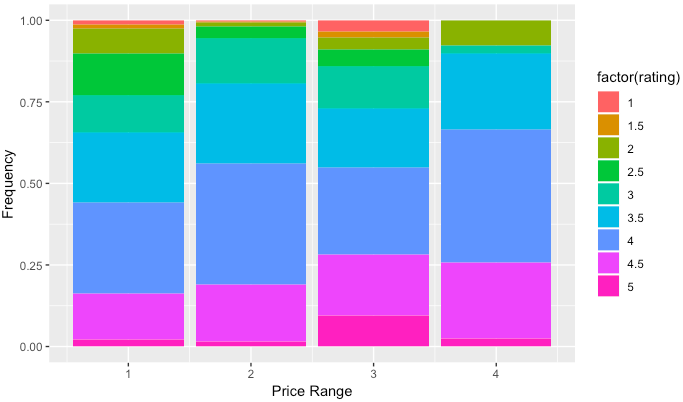
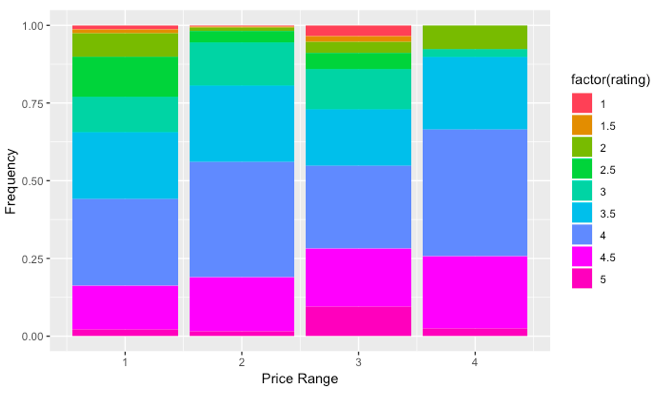
changes

diff --git a/kzhang21_ryuc_zui_sarms/README.md b/kzhang21_ryuc_zui_sarms/README.md
@@ -1,4 +1,4 @@
-# Project #3
+# Project #3: Final Report
 **Duy Nguyen** and **Sarah M'Saad** and **Colleen Kim** and **Kelly Zhang**
 
 ## How to run this code?
@@ -20,40 +20,53 @@ For data storage, we use mongoDB to store and interact with data through a simpl
 ## Algorithms and Analysis Techniques
 In the beginning of our working pipeline, we import food inspection data from Analyze Boston. We calculate the average food violation rate for each restaurant, and then we incorporate rating data from the Yelp Fusion API. Finally, we use z3 to approach restaurant selection as a constraint satisfaction problem, where the user provides the following constraints as input: location, minimum and maximum travel distance, average rating requirement, average acceptable violations. Location is used as a starting location of where the user would like to start their day in Boston, and using GeoPy we are able to determine acceptable eateries based on the given minimum and maximum distances. Using these constraints and GeoPy we return a list of places the user can go to, which in trial mode is 5 places, and otherwise 500.
 
-## Visualizations
-To help users get a better idea of the available eateries in Boston, we also provide visualizations of the data gathered using R. In figure 1 and 2 are a graphs showing the relationship between price range and restaurant rating. There is a positive relationship here, indicating that the more expensive a restaurant is, the better ratings it gets.
+## Visualizations and Statistical Analysis
+To help users get a better idea of the available eateries in Boston, we also provide visualizations of the data gathered using R. In figure 1 is a graph that shows the relationship between price range and restaurant rating. There is a positive relationship here, indicating that the more expensive a restaurant is, the better ratings it gets. There are no one-star reviewed restaurant within the price range of '$$$$' which is somewhat expected. 
 
 ![figure1](images/figure1.png)
 
 **Figure 1:** Graphs showing a positive relationship between the price range and rating of a restaurant.
 
-![figure2](images/figure2.png)
+To further understand their relationship, we transformed the price range into a continuous variable (from 1 to 4, repective with the number of dollar signs a restaurnt holds). We assume this transformation is legitimate since we want to understand the increasing relationship of price in comparison with rating. We saved this variable as `price_new`. Then, we calculated their p-value (using t-test distribution) and their correlation coefficient. And then model the results using a linear regression model.
+
+![figure2](images/figure_3.png)
 
 **Figure 2:** Graphs showing a positive relationship between the price range and rating of a restaurant.
 
-In figure 3 is a graph showing the restaurant densities, mean rating, and mean price for eateries in a neighborhood. As can be seen, Chinatown has the highest density of eateries, while North End has the highest mean rating per restaurant, and Back Bay is the most expensive neighborhood.
+From figure 2, we can see that the fitted line has barely a positive slope (0.02016 coefficient). And the price and rating correlation coefficient is equal to 0.02 with a significant p-value (2.2e-16). This means that there is no real correlation which is interesting to note that good quality restaurants can be cheap and bad quality restaurants can also be expensive. However, these findings are all based on yelp reviewers which can be biased. 
 
-![figure3](images/figure3.png)
+Now, we try to understand the relationship between neighbourhood and price/rating. Figure 3 is a graph showing the restaurant densities, mean rating, and mean price for eateries in a neighborhood. As can be seen, Chinatown has the highest density of eateries, while North End has the highest mean rating per restaurant, and Charlestown/South Boston are the most expensive neighborhoods.
 
-**Figure 3:** Graph showing the density, mean rating, and mean price of neighborhoods in Boston; Chinatown is the densest, North End has the highest mean ratings, and Back Bay is the most expensive.
+![figure3](images/figure_4.png)
 
+**Figure 3:** Graph showing the density, mean rating, and mean price of neighborhoods in Boston; Chinatown is the densest, North End has the highest mean ratings, and Charlestown/South Boston is the most expensive.
 
-In addition, figure 4 is a visual mapping of violation rate and figure 5 is Fusion rating in neighborhoods.
+Now, we try to find a correlation between density of a neighbourhood (restaurant per acre) and the mean_rating. The correlation coefficient between density and mean_rating is 0.2 which is a high number. Furthermore, we fitted these variables by using a linear regression model and found that the coefficient is 0.05372 (with a p-value of 0.009, highly significant). Therefore, we conclude that density matters in terms of average rating of the restaurant. So highly busy/dense neighbourhoods have higher quality restaurants. Back Bay and North End are the prime example for Boston.
 
-![figure4](images/figure4.png)
+![figure5](images/figure_5.png)
 
-**Figure 4:** Visual mapping of violation rate by neighborhood.
+**Figure 4:** Graphs showing a positive relationship between the density and average rating of a neighbourhood.
 
-![figure5](images/figure5.png)
+In addition, figure 5 is a visual mapping of violation rate and figure 6 is a visual of mean rating in neighborhoods.
 
-**Figure 5:** Visual mapping of average Fusion rating by neighborhood.
+![figure4](images/viol.png)
 
+**Figure 5:** Visual mapping of violation rate by neighborhood.
 
-And figure 6 shows the what type of cuisine each neighborhood has the most of; Most of North End’s eateries are Italian, and Fenway has a high density of pizza and sandwiches. 
+![figure5](images/rating.png)
 
-![figure6](images/figure6.png)
+**Figure 5:** Visual mapping of average rating by neighborhood.
 
-**Figure 6:** Showing of neighborhood restaurant county by cuisine.
+Also, we tried to understand whether the violation rate of a given restaurant affects the quality of a food establishment or vice-verse. Therefore, we conducted some statistical analysis on these variables to further understand their relationship.
+We found that their correlation coefficient is equal to -0.08, which denotes a negative relationship. The higher the violation, the lower the rating. Here's a plot of the linear regression model. The slope of the fitted line is negative (-0.0023). 
+
+![figure7](images/figure_7.png)
+
+And figure 6 shows the what type of cuisine each neighborhood has the most of; Most of North End’s eateries are Italian, and Chinatown has a high density of chinese food and Back Bay has a high amount of hotels/sandwiches/cocktailbars. 
+
+![figure6](images/table.png)
+
+**Figure 7:** Showing of neighborhood restaurant count by cuisine.
 
 ## How to Run
 
